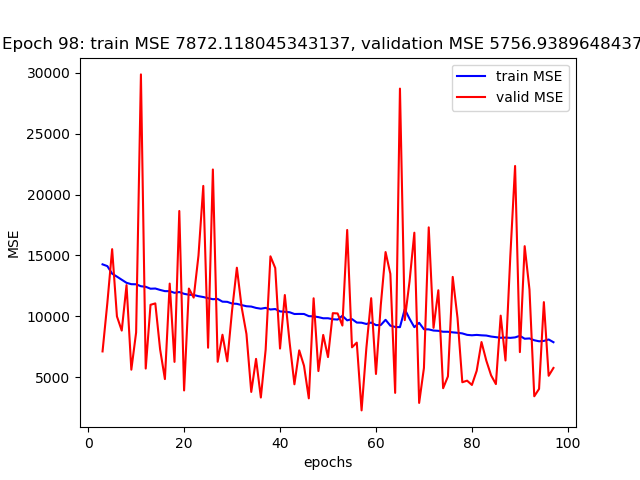
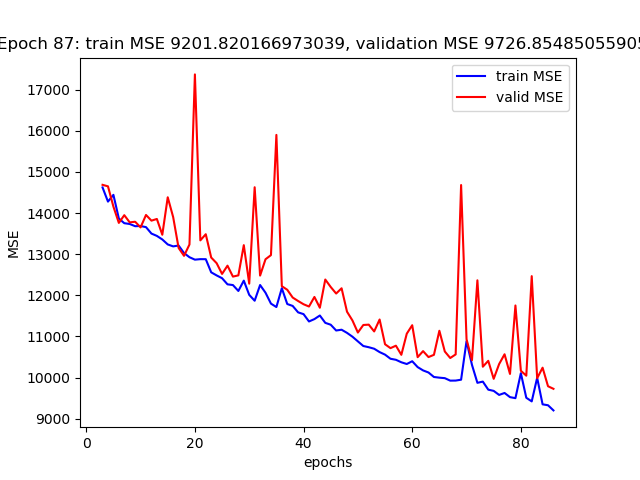
fixed a bug

diff --git a/utils.py b/utils.py
@@ -23,30 +23,29 @@ def load_model(ckpt_path):
 
 def get_dataloader(data, batch_size, USE_CUDA=True, object_dim=100, n_objects=5, relation_dim=1, validation_split=0.3,\
     random_seed=42, shuffle_dataset = True):
+    n_relations = n_objects * (n_objects - 1)
+    dataset = MyDataset(data, USE_CUDA, object_dim, n_objects, n_relations, relation_dim)
+    dataset_size = len(dataset)
+    indices = list(range(dataset_size))
 
-	n_relations = n_objects * (n_objects - 1)
-	dataset = MyDataset(data, USE_CUDA, object_dim, n_objects, n_relations, relation_dim)
-	dataset_size = len(dataset)
-	indices = list(range(dataset_size))
-	
 
-	split = int(np.floor(validation_split * dataset_size))
-	if shuffle_dataset :
-	    np.random.seed(random_seed)
-	    np.random.shuffle(indices)
-	train_indices, val_indices = indices[split:], indices[:split]
-	if shuffle_dataset:
-		train_sampler = SubsetRandomSampler(train_indices)
-		valid_sampler = SubsetRandomSampler(val_indices)
-	else:
-		train_sampler = SequentialSampler(train_indices)
-		valid_sampler = SequentialSampler(val_indices)
+    split = int(np.floor(validation_split * dataset_size))
+    if shuffle_dataset :
+        np.random.seed(random_seed)
+        np.random.shuffle(indices)
+    train_indices, val_indices = indices[split:], indices[:split]
+    if shuffle_dataset:
+    	train_sampler = SubsetRandomSampler(train_indices)
+    	valid_sampler = SubsetRandomSampler(val_indices)
+    else:
+    	train_sampler = SequentialSampler(train_indices)
+    	valid_sampler = SequentialSampler(val_indices)
 
-	train_loader = torch.utils.data.DataLoader(dataset, batch_size=batch_size, 
-	                                           sampler=train_sampler)
-	validation_loader = torch.utils.data.DataLoader(dataset, batch_size=batch_size,
-	                                                sampler=valid_sampler)
-	return train_loader, validation_loader
+    train_loader = torch.utils.data.DataLoader(dataset, batch_size=batch_size, 
+                                               sampler=train_sampler)
+    validation_loader = torch.utils.data.DataLoader(dataset, batch_size=batch_size,
+                                                    sampler=valid_sampler)
+    return train_loader, validation_loader
 
 
 

diff --git a/transformations.py b/transformations.py
@@ -37,8 +37,8 @@ def world2camera_coord(location, camera):
             [-Cos[a] Sin[b]  -Sin[a] Sin[b]   Cos[b] ]
         where a = yaw, b = pitch and c = roll = 0
         """
-        if roll != 0:
-        	print("WARNING: roll is not 0, but code expects it to be 0")
+        # if roll != 0:
+        # 	print("WARNING: roll is not 0, but code expects it to be 0")
         #assert roll == 0
         x, y, z = p_w[0] - c["x"], p_w[1] - c["y"], p_w[2] - c["z"]  # P_w - C
         if ignore_pitch:

diff --git a/int_network.py b/int_network.py
@@ -45,7 +45,7 @@ def validate(validation_loader, model):
     for dp, target in validation_loader:
         objects, sender_relations, receiver_relations, relation_info = dp
         predicted = interaction_network(objects, sender_relations, receiver_relations, relation_info)
-        calculate_total_loss(predicted, target)
+        loss = calculate_total_loss(predicted, target)
         #loss = criterion(predicted, target)  
         losses.append(loss.item())
     return np.mean(losses)

diff --git a/data_preprocessing.py b/data_preprocessing.py
@@ -173,6 +173,8 @@ def process_video(video_path, max_obj=5):
 	for frame_idx, frame in enumerate(frames):
 		# initialize to empty features for all objects
 		frame_info = [[0 for _ in range(max(flatten(index_mapping.values()))+1)] for _ in range(max_obj)]
+		for obj_fr in frame_info:
+			obj_fr[1] = 1
 		for _, obj_name in enumerate(frame):
 			if obj_name != "masks":
 				is_occluder = "occluder" in obj_name.lower()
